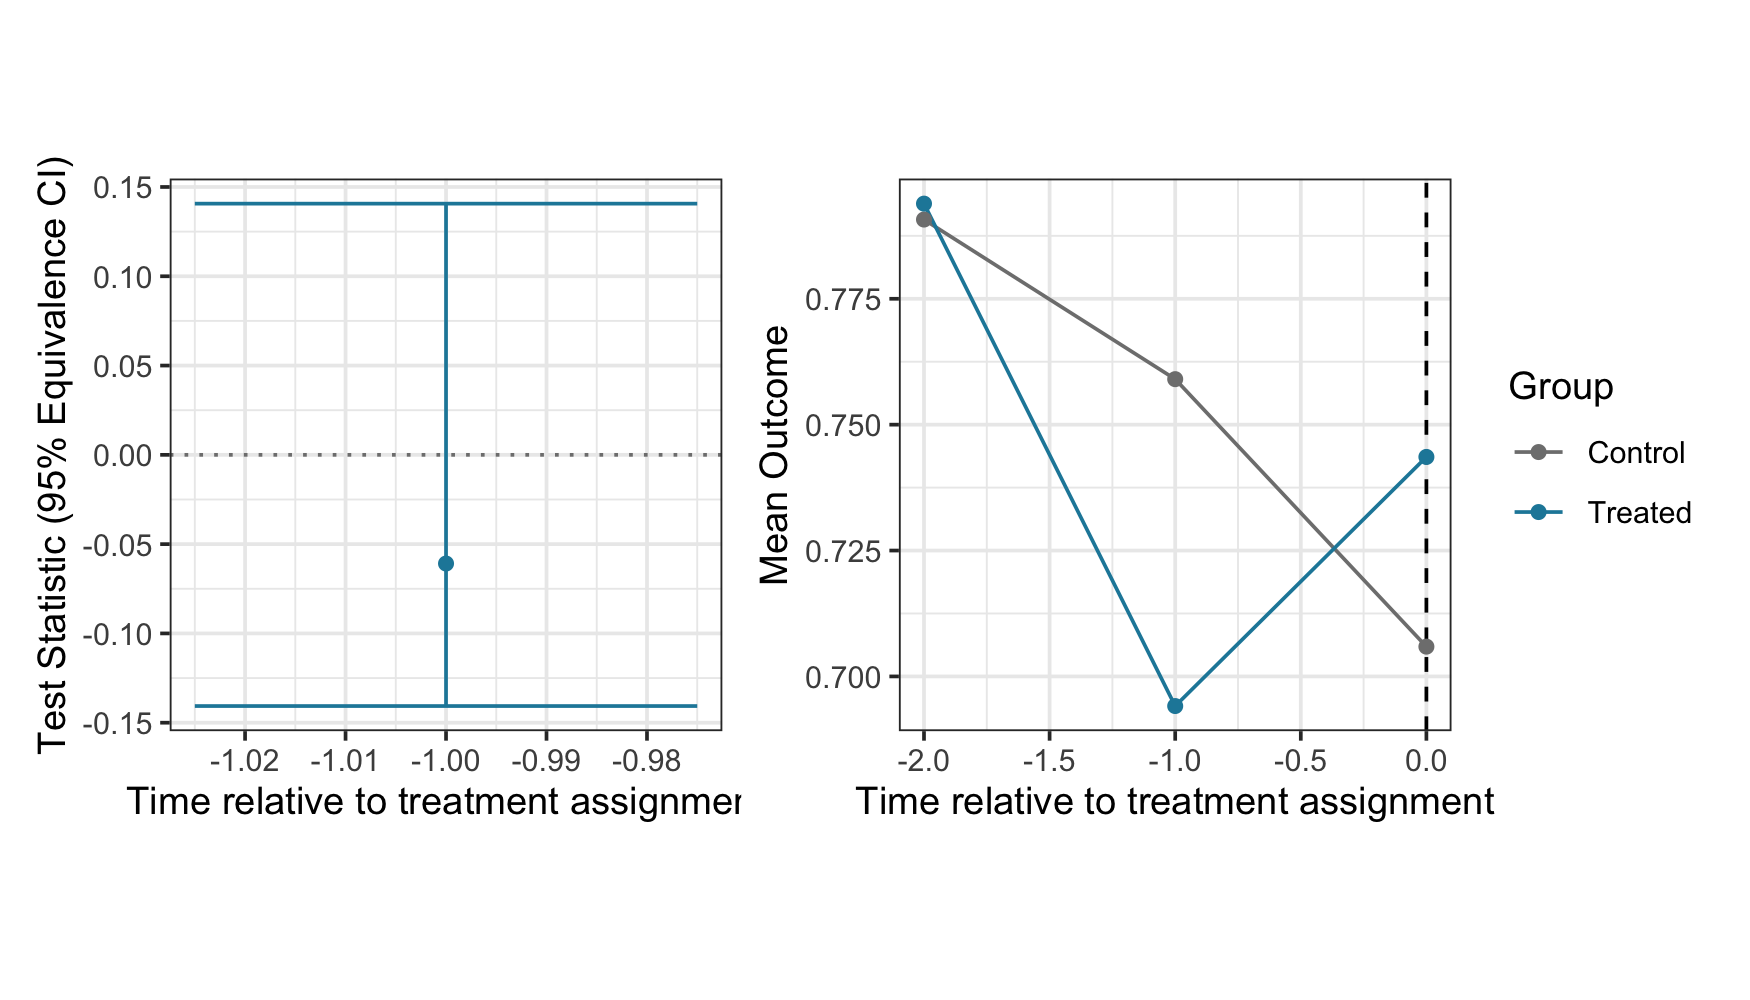
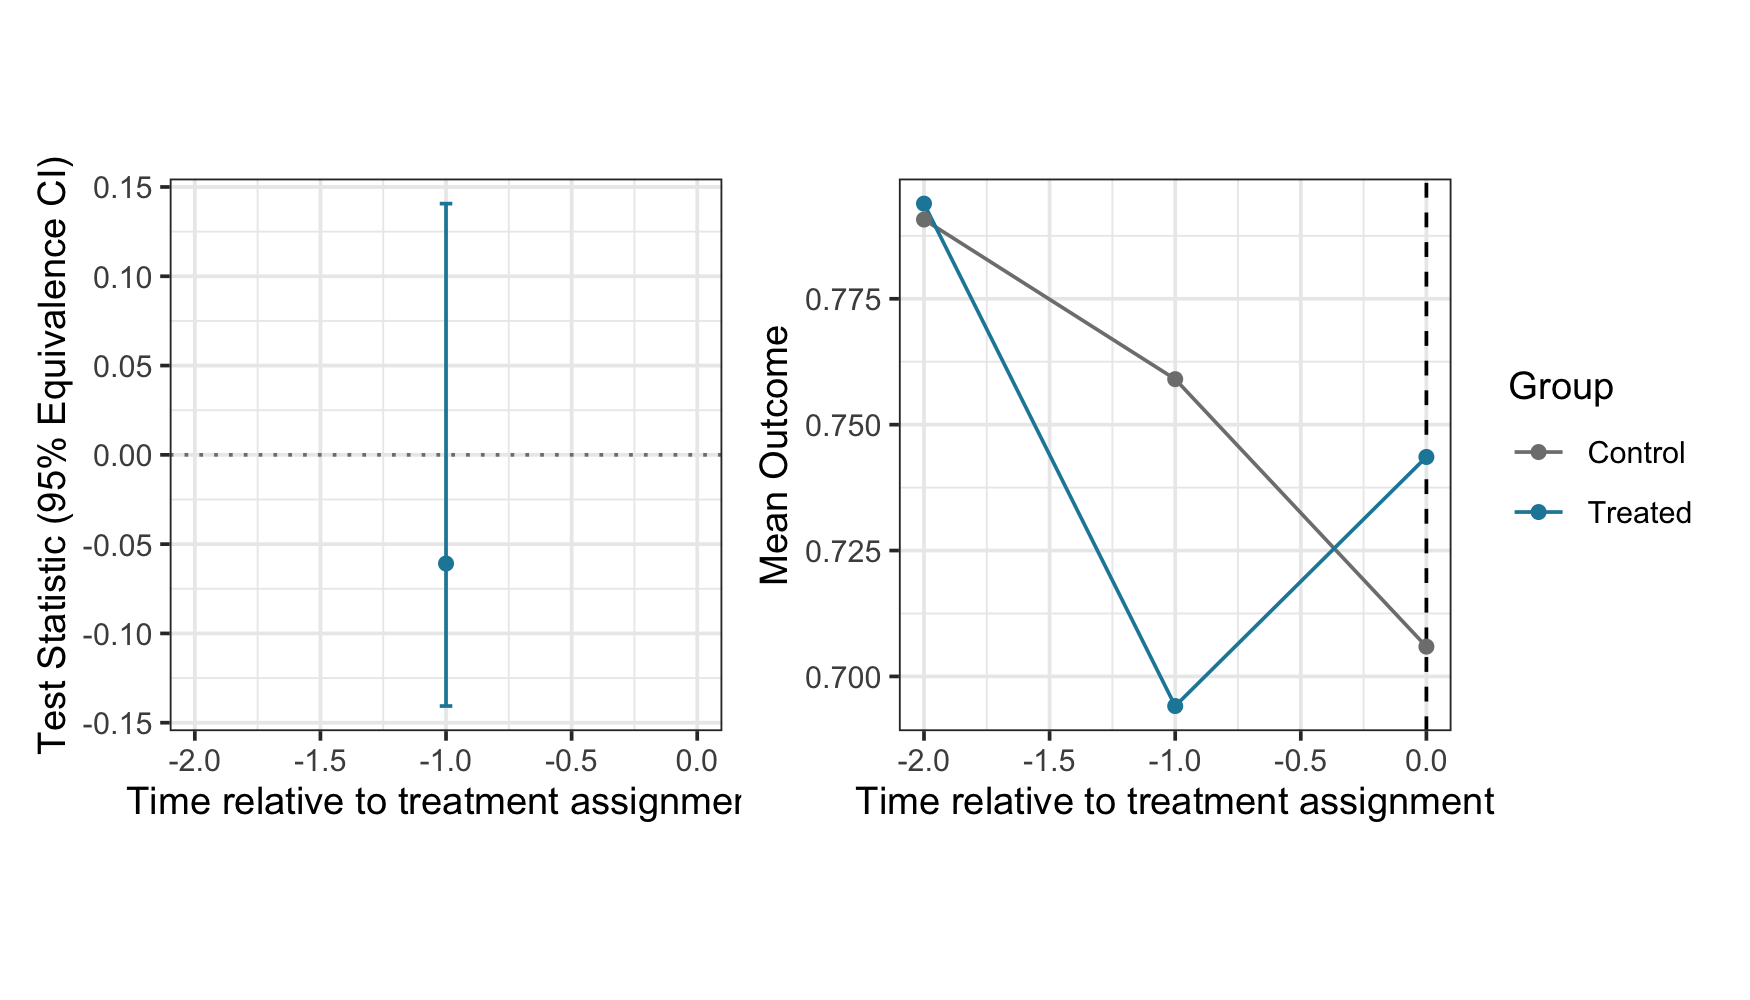
Update readme [build]

diff --git a/README.md b/README.md
@@ -71,6 +71,10 @@ plot(check_panel)
 
 <img src="man/figures/README-unnamed-chunk-3-1.png" width="100%" style="display: block; margin: auto;" />
 
+If a user wish to create custom figures, data used to generate the above
+plot are available via `check_panel$plot[[1]]$dat_plot` and
+`check_panel$plot[[2]]$dat_plot`.
+
 ### Step 2: Estimate the treatment effect with the double DID estimator
 
 ``` r
@@ -254,8 +258,10 @@ check_sa$estimate
 ```
 
 ``` r
-check_sa$plot + ggplot2::theme(aspect.ratio=1)
+plot(check_sa)
 ```
+
+<img src="man/figures/README-unnamed-chunk-7-1.png" width="70%" style="display: block; margin: auto;" />
 
 ## Step 2: Estimate staggered-adoption average treatment effect
 
